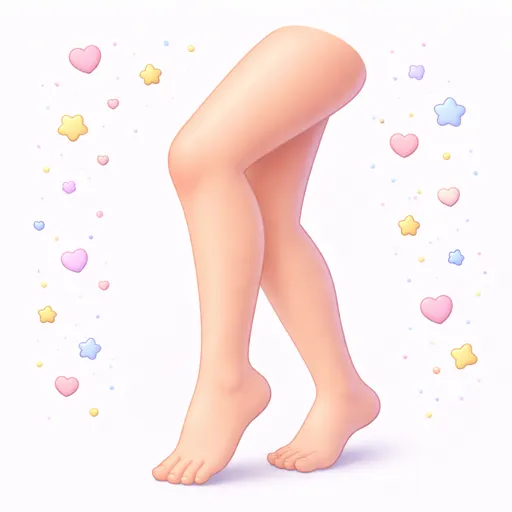
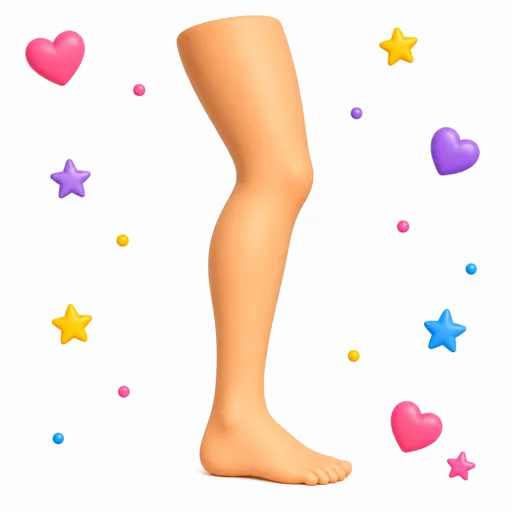
dete sme da kuca i brise; `cama` je sada JEDNA noga; mnozina se priznaje
1) PRECRTAVALO JE DOK DETE JOS KUCA (prijava vlasnice, desilo se tri puta)
Dete je umesto „orella" pocelo da pise „urella" i CIM je otkucalo prvo slovo
u poslednjem praznom polju sve je bilo precrtano — polja zakljucana, zadatak
ispocetka.
Uzrok: provera je kretala 300 ms posto SVA polja imaju bilo kakav tekst.
Poslednje polje dobije jedno slovo → uslov ispunjen → presuda. Dete nije
stiglo ni da dopise rec.
Kod zadatka gde se KUCA to je pogresno po sebi: dete pise, brise, popravlja i
samo kaze kad je gotovo. Vraceno dugme „Comprova!", kao u ostalim zadacima sa
kucanjem. Uz to je zadatak jasniji — vidi se da postoji trenutak „sad proveri".

2) `cama` JE BILA SLIKA SA DVE NOGE
Zbog toga je dete u zadatku sa mikrofonom deset puta reklo „cames" i nije
prolazilo — gledalo je sliku i govorilo tacno ono sto vidi.
Nova slika ima JEDNU nogu (ChatGPT, isti stil kao `brac`). Stara dvonozna
slika nije obrisana nego je postala `cames`, gde i pripada.

3) MNOZINA SE PRIZNAJE U IZGOVORU
`cames`↔`cama`, `ulls`↔`ull`, `mans`↔`ma`, `orelles`↔`orella`. Pravilo prati
katalonsku mnozinu (skida „s", pa „n", pa vraca „e"→„a"), ne samo „+s".
Vazi SAMO za izgovor — tamo se proverava da li dete zna rec, ne kako se pise.
U pisanim zadacima ostaje strogo. Provereno da ne spaja razlicite reci
(`gat`/`gos` i `nas`/`boca` se i dalje razlikuju).

Nova provera: „Kucanje: ne presudjuje se dok dete pise" — upise po jedno slovo
u svako polje i trazi da nista nije zakljucano, nego da se pojavi „Comprova!".
[…]

diff --git a/src/components/tasks/LabelWrite.tsx b/src/components/tasks/LabelWrite.tsx
@@ -110,16 +110,23 @@ export default function LabelWrite({ task, onComplete, review = false }: Props) 
   const allAnswered = task.labels.every((_, i) => answers[i]?.trim());
   const allCorrect = checked && Object.values(results).every(Boolean);
 
-  // Auto-check when all answers are filled
-  useEffect(() => {
-    if (review) return; // In review mode the task is already solved; never auto-check/complete.
-    if (allAnswered && !checked) {
-      const timer = setTimeout(() => {
-        handleCheck();
-      }, 300);
-      return () => clearTimeout(timer);
-    }
-  }, [allAnswered, checked, handleCheck, review]);
+  /**
+   * SAMA PROVERA JE UKLONJENA — VRAĆENO DUGME „Comprova!" (17.08.2026)
+   *
+   * Prijava vlasnice: dete je umesto „orella" počelo da piše „urella", i ČIM
+   * je otkucalo prvo slovo u poslednjem praznom polju sve je bilo precrtano i
+   * moralo se ispočetka. Desilo se tri puta.
+   *
+   * Uzrok: provera je kretala 300 ms pošto SVA polja imaju bilo kakav tekst.
+   * Poslednje polje dobije jedno slovo → uslov ispunjen → provera → sve
+   * pogrešno → `disabled` zaključa polja. Dete nije stiglo ni da dopiše reč,
+   * a kamoli da se ispravi.
+   *
+   * Kod zadatka gde se KUCA to je pogrešno po sebi: dete piše, briše, popravlja
+   * — i mora samo da kaže kad je gotovo. Zato ovde stoji dugme, kao i u ostalim
+   * zadacima sa kucanjem (`WriteAntonym`, `FillSentence`). Uz to dugme čini
+   * zadatak jasnijim: vidi se da postoji trenutak „sad proveri".
+   */
 
   // Separate labels into left and right sides
   const leftLabels: number[] = [];
@@ -291,6 +298,20 @@ export default function LabelWrite({ task, onComplete, review = false }: Props) 
           ))}
         </svg>
       </div>
+
+      {/* Dete samo kaže kad je gotovo — v. objašnjenje gore. */}
+      {allAnswered && !checked && (
+        <div className="task-action-bar">
+          <motion.button
+            whileHover={{ scale: 1.05 }}
+            whileTap={{ scale: 0.95 }}
+            onClick={handleCheck}
+            className="px-8 py-3 bg-[var(--primary)] text-white font-bold rounded-2xl text-lg shadow-md"
+          >
+            Comprova!
+          </motion.button>
+        </div>
+      )}
 
       {/* Retry button - only shown after wrong answer */}
       {checked && !allCorrect && (

diff --git a/src/hooks/useSpeechRecognition.ts b/src/hooks/useSpeechRecognition.ts
@@ -77,6 +77,27 @@ export function wordsMatch(spoken: string, expected: string): boolean {
   // Exact match
   if (normalSpoken === normalExpected) return true;
 
+  /**
+   * MNOŽINA SE PRIZNAJE (17.08.2026, prijava vlasnice).
+   *
+   * Dete je u zadatku sa mikrofonom deset puta reklo „cames" umesto „cama",
+   * jer na slici VIDI dve noge — i zadatak nije prolazio. Reč je znalo; falila
+   * je samo jedna gramatička sitnica koju slika sama sugeriše.
+   *
+   * Zato se sada priznaje i množina tražene reči, i obrnuto. Ovo važi SAMO za
+   * izgovor: tamo se proverava da li dete zna reč, a ne da li ume da je
+   * napiše. U pisanim zadacima ostaje strogo.
+   *
+   * (Slika za `cama` je istog dana promenjena na JEDNU nogu — ovo je pojas i
+   * tregeri: isto se dešava sa `ull`/`ulls`, `mà`/`mans`, `orella`/`orelles`.)
+   */
+  // Katalonska množina nije samo „+s": `cama`→`cames`, `orella`→`orelles`,
+  // `mà`→`mans`, `ull`→`ulls`. Zato se skida završno „s", pa završno „n"
+  // (zbog `mans`), pa se završno „e" vrati na „a" (`came`→`cama`).
+  const osnova = (t: string) =>
+    t.replace(/s$/, "").replace(/(.{2,})n$/, "$1").replace(/e$/, "a");
+  if (osnova(normalSpoken) === osnova(normalExpected) && osnova(normalExpected).length >= 2) return true;
+
   // Check if spoken contains expected (child might say extra words)
   if (normalSpoken.includes(normalExpected)) return true;
 

diff --git a/public/sw.js b/public/sw.js
@@ -1,4 +1,4 @@
-const CACHE_NAME = "catala-v60";
+const CACHE_NAME = "catala-v61";
 const STATIC_ASSETS = [
   "/",
   "/manifest.json",
